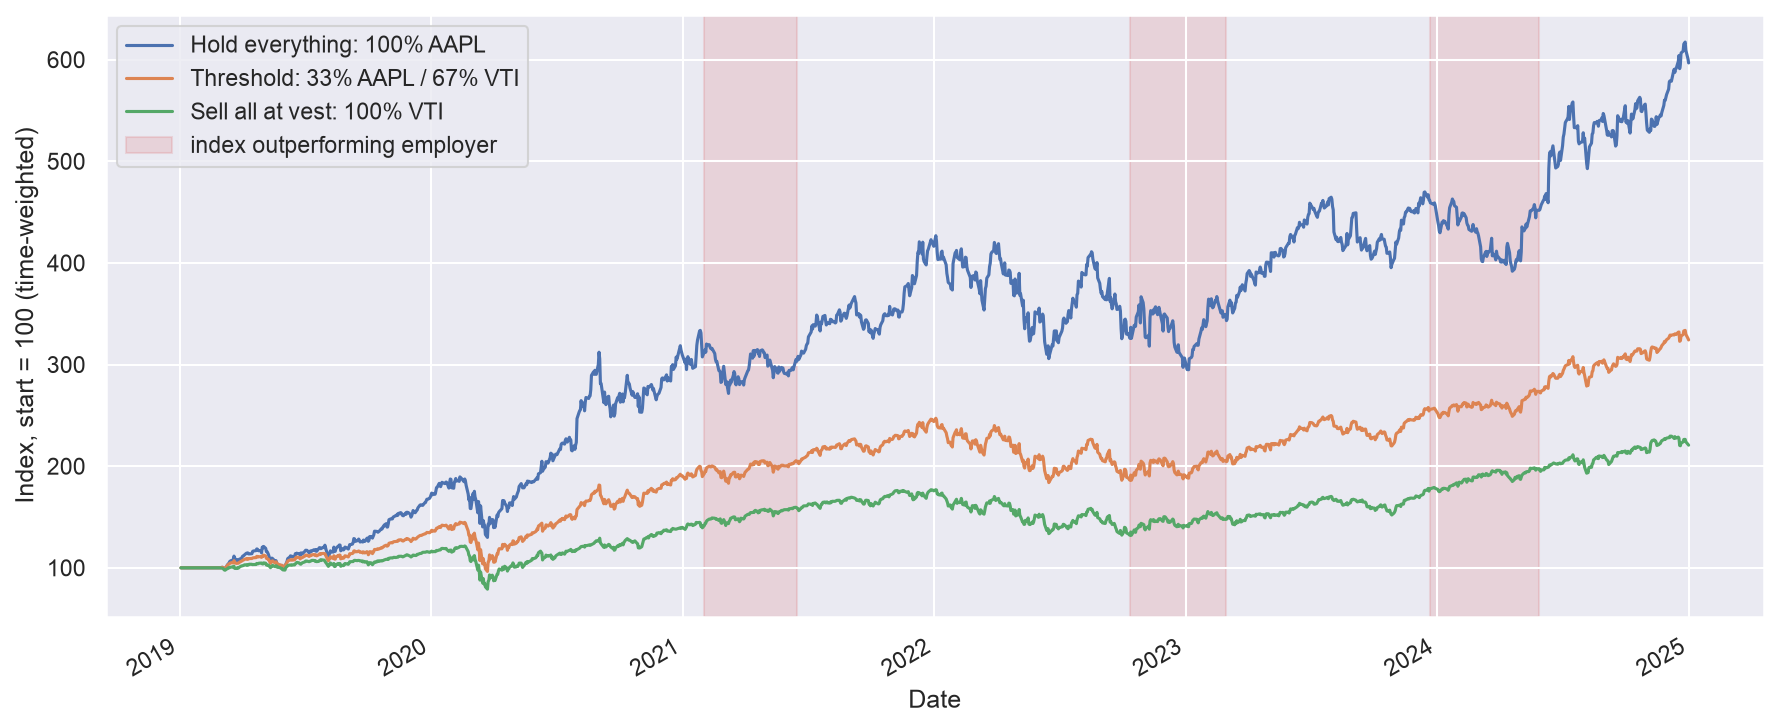
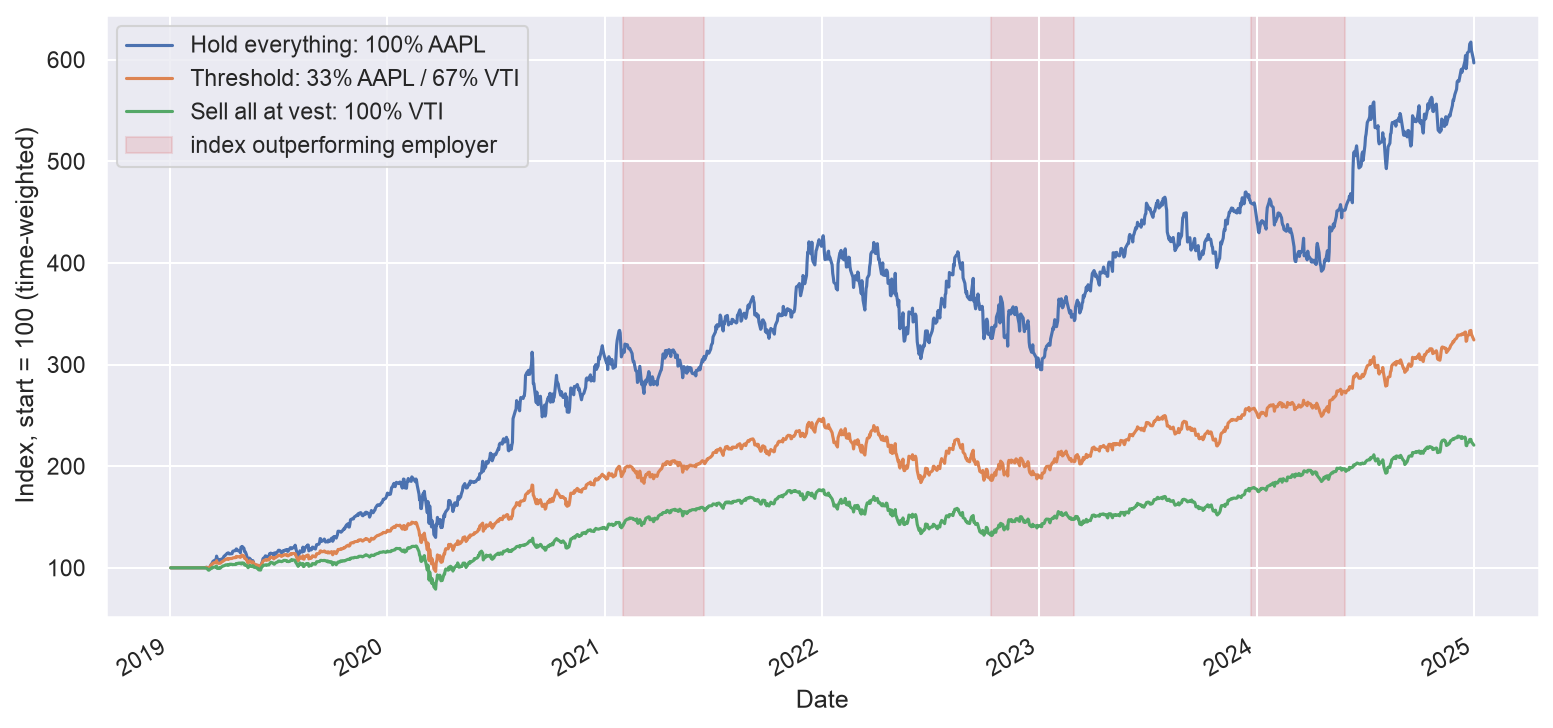
style(figures): narrow charts to 10.5in wide
Regenerate the README growth PNGs from the price fixture in the same commit.

diff --git a/src/rsu_app/figures.py b/src/rsu_app/figures.py
@@ -30,7 +30,7 @@ def build_concentration_figure(result: BacktestResult, threshold: float) -> Figu
     sale_dates = trades.loc[trades["kind"].isin(["rebalance", "liquidate"]), "date"]
     pre_sale_frac = frac.shift(1).loc[sale_dates]
 
-    fig, ax = plt.subplots(figsize=(12, 5))
+    fig, ax = plt.subplots(figsize=(10.5, 5))
     ax.plot(frac.index.to_numpy(), frac.to_numpy(), color="#d62728")
     ax.axhline(threshold, linestyle="--", color="gray")
     ax.scatter(
@@ -109,7 +109,7 @@ def build_performance_figure(
         prices[strategy_cfg.index_ticker.upper()],
     )
 
-    fig, ax = plt.subplots(figsize=(12, 5))
+    fig, ax = plt.subplots(figsize=(10.5, 5))
     (growth_df * 100).plot(ax=ax)
     band = None
     for start, end in spans: